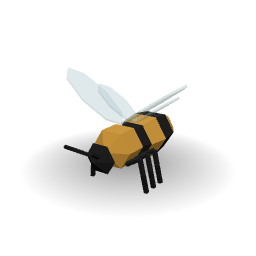
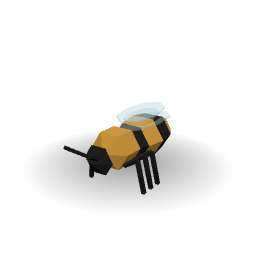
Honeybee and wasp: fold the wings when landed, root them on the thorax (#160)
The honeybee and wasp held their wings out when landed, and their wings
were rooted on the body's midline, as the fly's and mosquito's were. They
now fold along the back when landed and are rooted on the thorax's side.

- Each side's fore and hind wing is its own bone (WingF_, WingH_), both
  turning about the same flap line (same pivot x and z) so their planes
  never cross during the beat; the honeybee's hind wing sits at the
  thorax's rear edge so it still trails behind the fore wing.
- New motions bee and wasp replace buzz: Fly is the same beat; Idle folds
  the four wings level along the back, the right pair stacked above the left.
- No two wings overlap in Fly or Idle, every wing root stays inside the
  body in Fly, no wing-leg contact. Landed, the right fore wing floats
  0.4 to 0.5 mm above the body (noted).
- GLBs, thumbnails, two manifest sizes and NOTES updated.

Changed region(s): [[0.25, 0.25, 0.7188, 0.7812], [0.7188, 0.3125, 0.75, 0.3438]]

diff --git a/art/scripts/insects.py b/art/scripts/insects.py
@@ -143,7 +143,7 @@ def wing(p, edge, fill, pts, z0, tilt=25.0, side=1, thick=0.5, inset=0.8):
 
 
 def flap(p, role, side, pivot):
-    """The wings added inside are one moving piece (Wing_L / Wing_R, or `role` + _L / _R) that flaps about the body line through `pivot`."""
+    """The wings added inside are one moving piece (Wing_L / Wing_R, or `role` + _L / _R) that flaps about the lengthwise line through `pivot`. A model with two wing pieces a side (WingF, WingH) must give both the same pivot x and z, or the two turn about different lines and their planes cross during the beat."""
     return moving(p, f"{role}_{'L' if side > 0 else 'R'}", pivot)
 
 
@@ -260,14 +260,15 @@ def firefly():
 @critter("flyers", "Honeybee")
 def honeybee():
     p = new("GN_Honeybee_01")
-    p.motion = "buzz"
+    p.motion = "bee"
     banded(p, ("golden", "black"), (0, 3.0, 4.2), (2.8, 4.8, 2.6), n=6, rings=5)
     blob(p, "golden", (0, -2.2, 4.4), (2.7, 2.4, 2.5), n=6)
     blob(p, "black", (0, -5.2, 4.0), (1.8, 1.3, 1.7), n=6, rings=1)
     for s in (-1, 1):
-        with flap(p, "Wing", s, (s * 0.3, -0.5, 6.3)):
-            wing(p, "clear_glass", None, ellipse_pts(4.5, -1.5, 4.5, 2.0), 6.5, tilt=35, side=s, thick=0.2)
-            wing(p, "clear_glass", None, ellipse_pts(3.2, 1.2, 3.2, 1.5), 6.0, tilt=35, side=s, thick=0.2)
+        with flap(p, "WingF", s, (s * 0.41, -1.5, 5.95)):                                      # each wing is rooted on the thorax's side and turns about its own root
+            wing(p, "clear_glass", None, ellipse_pts(0.5 + 4.5, -1.5, 4.5, 2.0), 5.91, tilt=35, side=s, thick=0.2)
+        with flap(p, "WingH", s, (s * 0.41, 0.0, 5.95)):
+            wing(p, "clear_glass", None, ellipse_pts(0.5 + 3.2, 0.0, 3.2, 1.5), 5.41, tilt=35, side=s, thick=0.2)
     legs(p, "black", 1.6, (-3.0, -1.6, -0.2), 3.0, 2.0, 0.8, 0.4, dy=0.8, move=False)
     antennae(p, "black", (0.6, -6.2, 4.6), (1.6, -8.5, 6.0), 0.3)
     return p
@@ -480,16 +481,17 @@ def mosquito():
 def wasp():
     """A common wasp (about 16 mm): a yellow and black banded abdomen on a thin waist, a black thorax, a yellow face and four clear wings."""
     p = new("GN_Wasp_01")
-    p.motion = "buzz"
+    p.motion = "wasp"
     banded(p, ("paint_yellow", "black"), (0, 5.2, 4.2), (2.6, 5.0, 2.5), n=6, rings=5)       # the abdomen
     blob(p, "black", (0, 0.4, 4.2), (0.7, 0.9, 0.7), n=6, rings=1)                          # the waist
     blob(p, "black", (0, -2.4, 4.4), (2.5, 2.4, 2.4), n=6, rings=2)                         # the thorax
     blob(p, "paint_yellow", (0, -6.0, 4.3), (2.1, 1.6, 1.9), n=6, rings=1)                  # the face
     for s in (-1, 1):
         ball_at(p, "black", (s * 1.5, -6.3, 4.8), 0.8, n=5)                                 # the eyes
-        with flap(p, "Wing", s, (s * 0.4, -2.0, 6.5)):
-            wing(p, "clear_glass", None, ellipse_pts(6.0, -2.6, 6.0, 1.8), 6.6, tilt=25, side=s, thick=0.18)
-            wing(p, "clear_glass", None, ellipse_pts(4.2, -1.0, 4.2, 1.3), 6.4, tilt=25, side=s, thick=0.18)
+        with flap(p, "WingF", s, (s * 0.45, -2.6, 6.15)):                                     # each wing is rooted on the thorax's side and turns about its own root
+            wing(p, "clear_glass", None, ellipse_pts(0.5 + 6.0, -2.6, 6.0, 1.8), 5.94, tilt=25, side=s, thick=0.18)
+        with flap(p, "WingH", s, (s * 0.45, -1.0, 6.15)):                                      # same flap line as the fore wing (z), 0.35 mm under it (0.18 thick each)
+            wing(p, "clear_glass", None, ellipse_pts(0.5 + 4.2, -1.0, 4.2, 1.3), 5.59, tilt=25, side=s, thick=0.18)
     legs(p, "paint_yellow", 1.4, (-3.8, -2.4, -1.0), 3.0, 3.0, 1.6, 0.4, dy=0.5, move=False)
     antennae(p, "black", (0.6, -6.7, 4.8), (1.6, -11.0, 6.8), 0.3)
     return p

diff --git a/art/scripts/insect_anim.py b/art/scripts/insect_anim.py
@@ -97,12 +97,13 @@ def fold_wings(rig, prefix="Wing", back=72.0, down=14.0, spread=0.0, lift=0.0, g
         turn(rig, name, x=-down)
 
 
-def idle_folded(rig, t, back=72.0, down=14.0, spread=0.0, lift=0.0, gap=0.0):
-    """Landed: wings folded back over the abdomen (a small shiver), the antennae feel about (a housefly has none)."""
+def idle_folded(rig, t, back=72.0, down=14.0, spread=0.0, lift=0.0, gap=0.0, prefixes=("Wing",)):
+    """Landed: wings folded back over the abdomen (a small shiver), the antennae feel about (a housefly has none). prefixes names the wing bones: a bee or wasp has WingF and WingH."""
     w = 2 * math.pi * t
     turn(rig, "Body", x=1.2 * math.sin(w))
     antennae(rig, w)
-    fold_wings(rig, back=back + 2.0 * math.sin(w), down=down, spread=spread, lift=lift, gap=gap)
+    for prefix in prefixes:
+        fold_wings(rig, prefix, back=back + 2.0 * math.sin(w), down=down, spread=spread, lift=lift, gap=gap)
 
 
 def hang_legs(rig, droop=126.0, trail=15.0, raise_by=0.0012):
@@ -216,7 +217,8 @@ def hop(rig, t):
 MOTIONS = {
     "butterfly": (("Idle", idle_butterfly, 48, 24), ("Fly", lambda r, t: fly(r, t, 38.0, 14.0, 0.0015, 3.0), 8, 24)),
     "moth": (("Idle", idle_flyer, 48, 24), ("Fly", lambda r, t: fly(r, t, 34.0, 12.0, 0.001, 2.5), 6, 24)),
-    "buzz": (("Idle", idle_flyer, 48, 24), ("Fly", lambda r, t: fly(r, t, 38.0, 12.0, 0.0, 0.0), 4, 24)),
+    "bee": (("Idle", lambda r, t: idle_folded(r, t, back=86.0, down=35.0, spread=-0.41, lift=-0.2, gap=1.0, prefixes=("WingF", "WingH")), 48, 24), ("Fly", lambda r, t: fly(r, t, 38.0, 12.0, 0.0, 0.0), 4, 24)),
+    "wasp": (("Idle", lambda r, t: idle_folded(r, t, back=86.0, down=25.0, spread=-0.45, lift=-0.2, gap=0.8, prefixes=("WingF", "WingH")), 48, 24), ("Fly", lambda r, t: fly(r, t, 38.0, 12.0, 0.0, 0.0), 4, 24)),
     "fold": (("Idle", lambda r, t: idle_folded(r, t, back=86.0, down=22.0, spread=-0.48, lift=-0.15, gap=0.25), 48, 24), ("Fly", lambda r, t: fly(r, t, 38.0, 12.0, 0.0, 0.0), 4, 24)),
     "mosquito": (("Idle", lambda r, t: idle_folded(r, t, back=86.0, down=15.0, spread=-0.24, gap=0.12), 48, 24), ("Fly", lambda r, t: fly_hanging_legs(r, t, 38.0, 12.0), 4, 24)),
     "dragonfly": (("Idle", idle_flyer, 48, 24), ("Fly", lambda r, t: fly(r, t, 26.0, 4.0, 0.0, 0.0, counter=True), 6, 24)),

diff --git a/NOTES.md b/NOTES.md
@@ -267,7 +267,13 @@ Housefly and Mosquito: the Idle clip (the pose the viewer opens on, and the thum
 
 **Measured** on the posed meshes (24 phases of the stroke, every frame of Idle) and on the exported GLBs (a skinning sampler at every key): in Fly every wing touches the body at every phase; in Idle the lower wing does and the upper wing rests within 0.08 mm of the wing below it; no wing-wing, wing-leg or leg-body contact in any clip, except the thigh and shin overlapping 0.01 to 0.02 mm at the knee, which is the joint. The legs are 0.6 mm from the wings at the closest, and the knee gap stays under 0.05 mm at every phase and in blends of Idle and Fly. Both models were looked at in the site viewer (Idle and Fly, Fly at 0.1 speed). The Opus first review and the Fable final review of the first change (wings crossing, wings through the thighs, legs swung forward, stale thumbnails) and the Opus first review of this one (the Fly wings through the front legs, the root depth figures, the stale manifest sizes, the short mosquito wings) are handled.
 
-**Not done:** the honeybee and wasp still hold their wings out when landed; the wing roots of the two wings overlap by 0.02 mm at some phases of the Fly clip (older geometry); a resting housefly holds its wings in a slight V (ours lie one over the other); the manifest sizes of the two were edited by hand (`make_manifest.py` stops on models whose `out/meta` is missing) and match the GLB bounding boxes.
+**Not done:** (the honeybee and wasp, which held their wings out too, are done: see the next section) the wing roots of the two wings overlap by 0.02 mm at some phases of the Fly clip (older geometry); a resting housefly holds its wings in a slight V (ours lie one over the other); the manifest sizes of the two were edited by hand (`make_manifest.py` stops on models whose `out/meta` is missing) and match the GLB bounding boxes.
+
+## Landed honeybee and wasp (2026-10-26)
+Same fix as the fly and mosquito ("Landed fly and mosquito"), for the two flyers that still held their wings out when landed. Honeybee and Wasp: the fore and hind wing of a side were one bone (`Wing_L`/`Wing_R`) rooted on the body's midline; each is now its own bone (`WingF_*`, `WingH_*`: 8 bones in each model, was 6), rooted on the thorax's side (the outline starts 0.5 mm out; the inner edge is 0.3 mm lower than before for the bee, 0.45 mm for the wasp's fore wing and 0.6 mm for its hind wing), with the honeybee's hind wing moved forward (centre y 1.2 to 0.0, at the thorax's rear edge) so that its root is on the thorax and not over the abdomen; further forward (-1.0) it was almost hidden under the fore wing in flight (the final review's look finding: 5 % of its area outside the fore outline; now about a third trails behind it). **Both wings of a side turn about the same line** (the same pivot x and z; their y differs, which is what lets each fold about its own root): with different heights the two planes crossed during every beat (a first version, caught by the first review). The wasp's hind wing is 0.35 mm under its fore wing. New motions `bee` and `wasp` in `insect_anim.py` (they replace `buzz`, which nothing else used): the Fly clip is the same beat as before; Idle folds the four wings level along the back (`idle_folded(prefixes=("WingF", "WingH"))`: the two sides moved to the midline, the right pair stacked 1.0 mm (bee) or 0.8 mm (wasp) above the left, the whole pile 0.2 mm lower than the roots).
+**Measured** on the posed meshes (24 phases of Fly, 4 of Idle; triangle-pair overlaps and nearest-vertex distances) and on the exported GLBs (a skinning sampler, 40 points across the beat): no two wings overlap in Fly or Idle; in Fly every wing root is inside the body at every phase (at least 0.05 mm for the bee's fore wing, 0.01 mm for the wasp's hind wing); no wing-leg contact. Landed, both left wings are in the body (the hind wing up to 1 mm deep under the fore wing, so it is mostly hidden, and the fore wing 0.3 to 0.6 mm), the right hind wing touches, and the right fore wing floats 0.4 to 0.5 mm above the body, and 0.54 mm above the left fore wing (the right hind wing under it is 1.8 to 2.6 mm shorter, so a light sliver shows under the top wing from the side): the pile of four wings is held together by their bones, not by contact. Thumbnails regenerated and the manifest sizes of both edited by hand (honeybee 0.016 x 0.012 x 0.016, wasp 0.023 x 0.011 x 0.021, the GLB bounding boxes). Looked at in the site viewer: the thumbnails (Idle) and the Fly clip at 0.1 speed (the honeybee, before the last pivot change; after it only measured).
+The honeybee's two fore wings pass 0.06 mm apart above the thorax at the top of the upstroke (pivots at x = 0.41 either side, 50 degrees): a bigger beat or pivots moved inboard would cross them.
+**Not done:** the black wasp or hornet the owner means to add holds its wings up when landed (a different pose, not built); a resting bee holds its wings in a slight V, ours lie level one over the other; the right fore wing's float.
 
 ## Scope (2026-10-25)
 Decided by the owner: the library takes generic things of any kind, including extinct and fantasy animals and creatures, weapons and military vehicles of any era (medieval, modern, sci-fi; always generic by type and low-poly, never a named make or model, no trademarked designs), and garbage and junk. Out: brands and trademarked designs, characters from other works, scanned or realistic models, and sexually explicit content (adult material, if wanted, is a separate project, not this public repository). The game's catalogue (`docs/from-game/art/prop-catalogue.md`) says real weapons are not catalogued; that was the game's rule and no longer applies here. The groups are tracked as issues (#117 to #148); the README no longer lists them.
